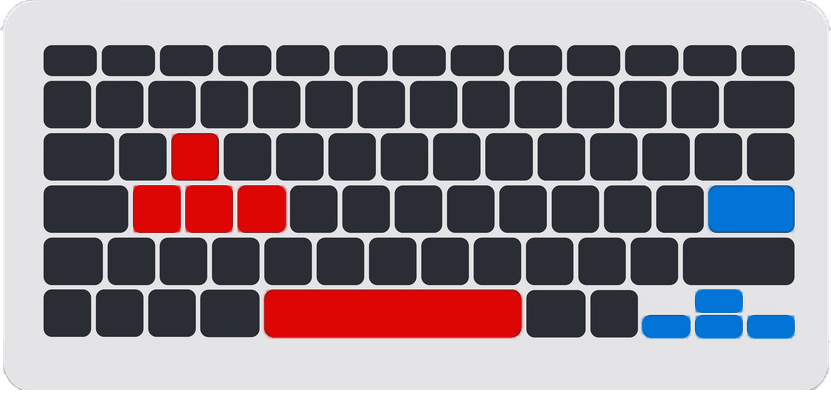
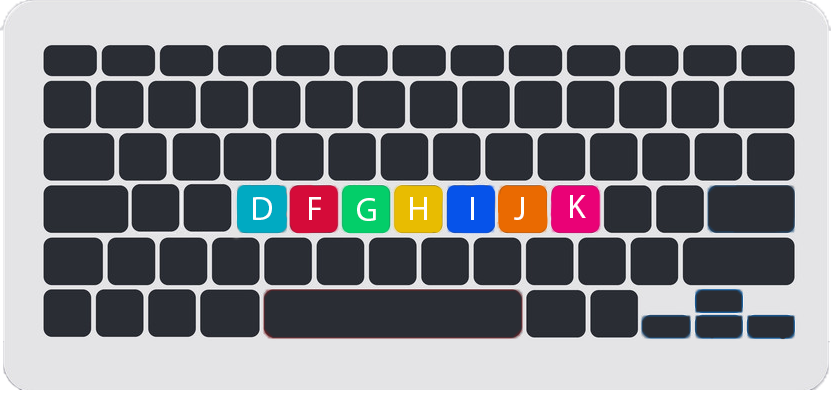
change guide image

diff --git a/index.html b/index.html
@@ -35,7 +35,7 @@
                 <button onclick="selectCarsNumber(this, 4)" class="button-selected">4 cars</button>
                 <button onclick="selectCarsNumber(this ,5)">5 cars</button>
             </div>
-            <button onclick="document.querySelector('img').style.display = 'block'">how to play</button>
+            <button onclick="toggleGuidImage()">how to play</button>
             <img src="images/how-to-play.png" alt="" width="600px" style="display: none; max-width: 80vw">
         </div>
         <div id="end-game" style="display: none">
@@ -67,7 +67,14 @@
                 e.classList.add('button-selected')
                 carsNumber = cars
             }
-
+            function toggleGuidImage () {
+                let display = document.querySelector('img').style.display
+                if (display === 'block') {
+                    document.querySelector('img').style.display = 'none'
+                } else {
+                    document.querySelector('img').style.display = 'block'
+                }
+            }
         </script>
     </body>
 </html>
